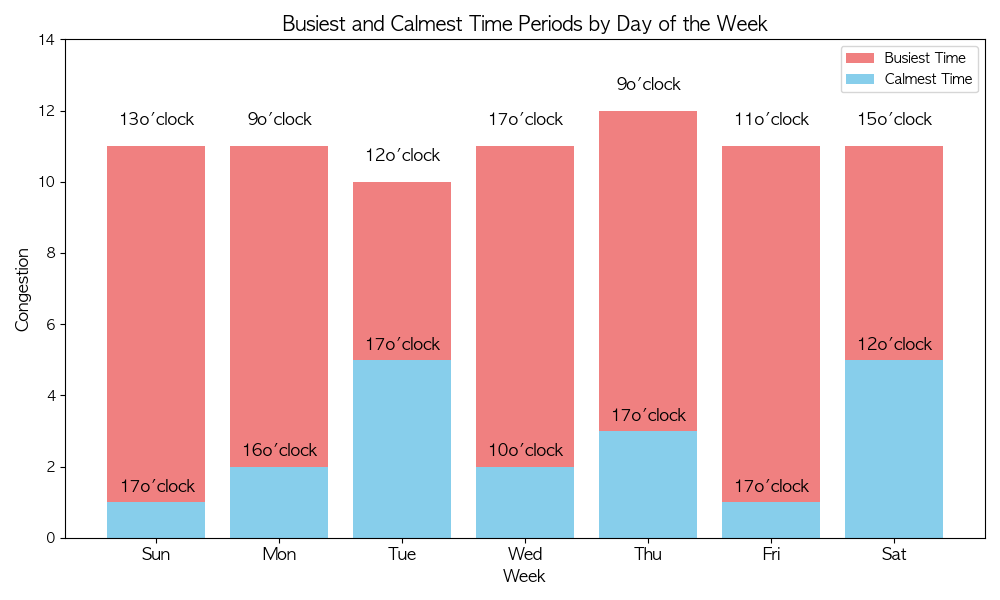
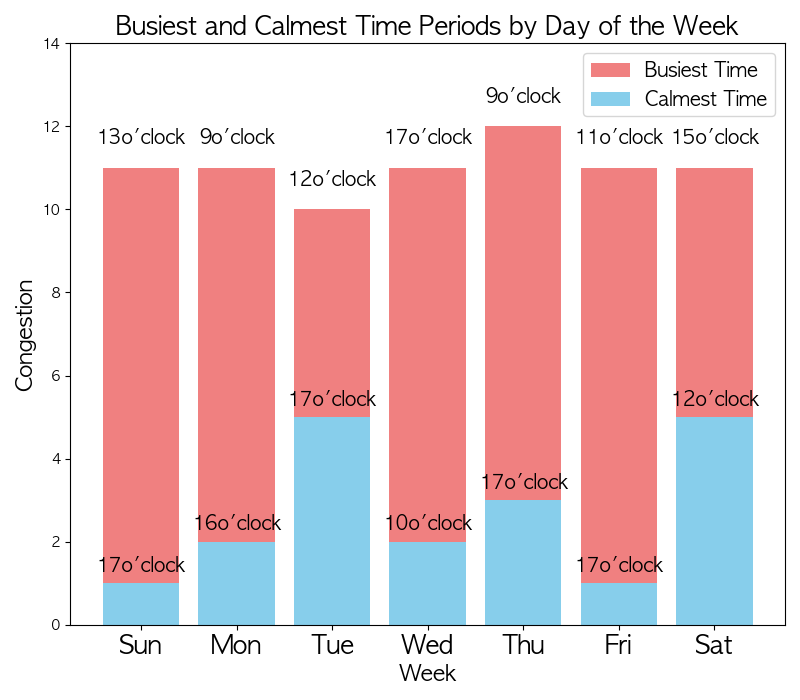
fontsize 수정

Changed region(s): [[0.0, 0.0, 1.0, 0.99], [0.125, 0.18, 0.3438, 0.21], [0.8438, 0.24, 0.9375, 0.27]]

diff --git a/dataAnalysis.py b/dataAnalysis.py
@@ -306,7 +306,7 @@ def generate_age_distribution_image(output_path):
             plt.figure(figsize=(12, 8))
 
             age_distribution[labels].plot(
-                kind='bar', stacked=True, color=age_colors, ax=plt.gca()
+                kind='bar', stacked=True, color=age_colors
             )
             plt.title('Age Distribution in Nearby Favorite Cafes', fontsize=14)
             plt.xlabel('Cafe Name', fontsize=12)
@@ -356,7 +356,7 @@ def generate_busiest_and_least_busy_times():
     average_congestion['weekday_korean'] = average_congestion['weekday'].map(dict(zip(weekday_order, weekday_korean)))
 
     # 그래프 1: 가장 붐비는 시간대와 가장 한가한 시간대
-    plt.figure(figsize=(10, 6))
+    plt.figure(figsize=(8, 7))
 
     # 가장 붐비는 시간대
     plt.bar(busiest_times['weekday_korean'], busiest_times['predicted_people'], color='lightcoral', label='Busiest Time')
@@ -367,7 +367,7 @@ def generate_busiest_and_least_busy_times():
             f"{int(row['hour'])}o'clock", 
             ha='center', 
             va='bottom', 
-            fontsize=12
+            fontsize=14
         )
 
     # 가장 한가한 시간대
@@ -379,16 +379,16 @@ def generate_busiest_and_least_busy_times():
             f"{int(row['hour'])}o'clock", 
             ha='center', 
             va='bottom', 
-            fontsize=12, 
+            fontsize=14, 
             color='black',
             bbox=dict(facecolor='none', edgecolor='none', alpha=0.7)  # 텍스트 배경 추가
         )
-    plt.title('Busiest and Calmest Time Periods by Day of the Week', fontsize=14)
-    plt.xticks(fontsize=12)
-    plt.xlabel('Week', fontsize=12)
-    plt.ylabel('Congestion', fontsize=12)
+    plt.title('Busiest and Calmest Time Periods by Day of the Week', fontsize=18)
+    plt.xticks(fontsize=18)
+    plt.xlabel('Week', fontsize=16)
+    plt.ylabel('Congestion', fontsize=16)
     plt.ylim(0, data['predicted_people'].max() + 2) 
-    plt.legend()
+    plt.legend(fontsize=14)
     plt.tight_layout()
 
     busiest_and_least_busy_path = os.path.join(STATIC_FOLDER, 'busiest_and_least_busy.png')
@@ -396,14 +396,14 @@ def generate_busiest_and_least_busy_times():
     plt.close()
 
     # 그래프 2: 평균 혼잡도
-    plt.figure(figsize=(10, 6))
+    plt.figure(figsize=(7, 5))
     plt.bar(average_congestion['weekday_korean'], average_congestion['predicted_people'], color='#2E8465', label='average_congestion')
-    plt.title('Average Congestion by Day of the Week', fontsize=14)
-    plt.xticks(fontsize=12)
-    plt.xlabel('Week', fontsize=12)
-    plt.ylabel('Congestion', fontsize=12)
+    plt.title('Average Congestion by Day of the Week', fontsize=18)
+    plt.xticks(fontsize=16)
+    plt.xlabel('Week', fontsize=16)
+    plt.ylabel('Congestion', fontsize=16)
     plt.ylim(0, data['predicted_people'].max() + 2) 
-    plt.legend()
+    plt.legend(fontsize=16)
     plt.tight_layout()
 
     average_congestion_path = os.path.join(STATIC_FOLDER, 'average_congestion.png')
